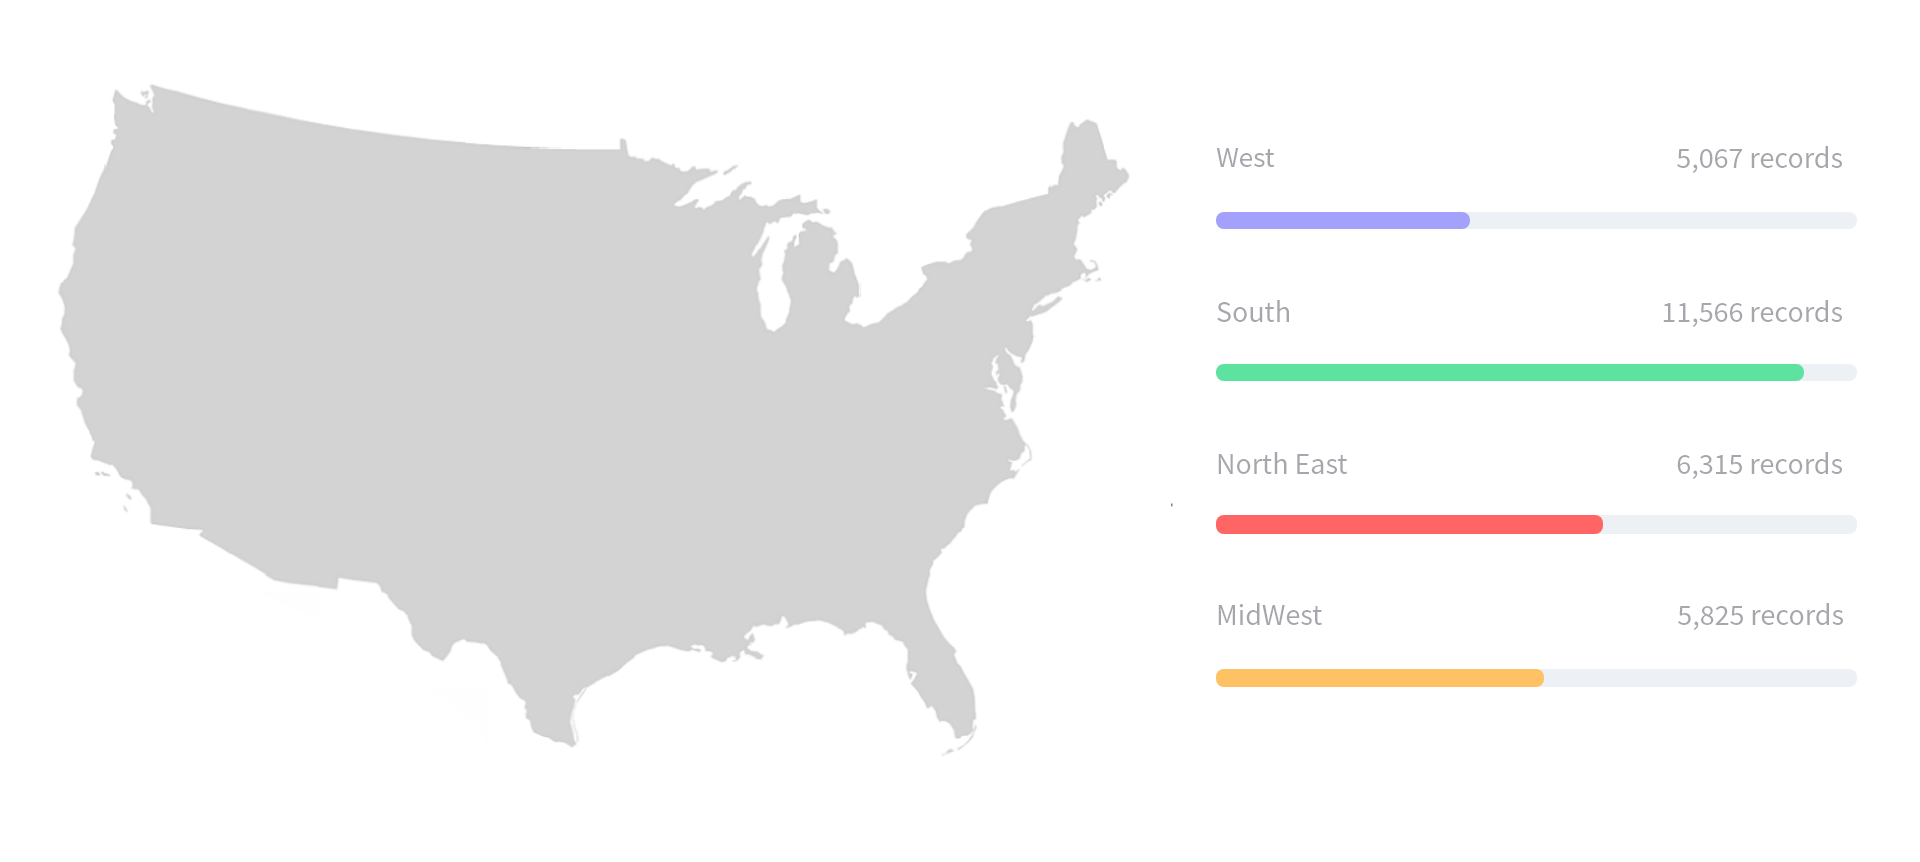
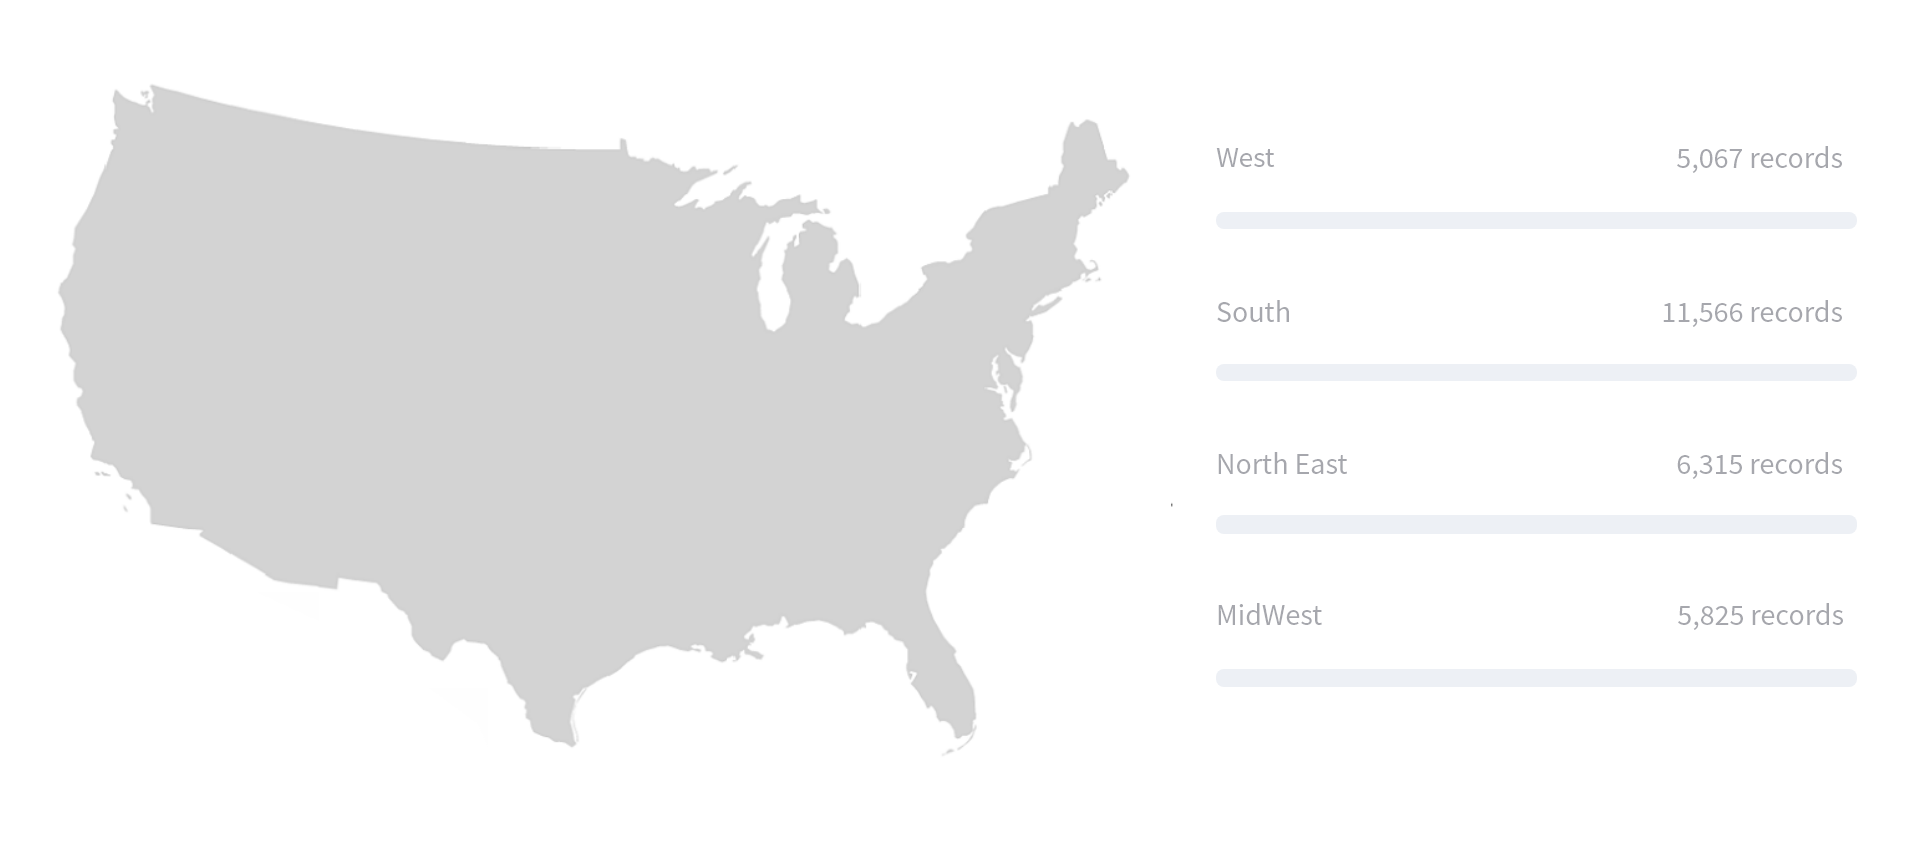
made some updates

diff --git a/templates/pull_data_API.html b/templates/pull_data_API.html
@@ -42,8 +42,6 @@
         animation: spin 5s  forwards;
        
         }
-      
-        /* Safari */
         @-webkit-keyframes spin {
         0% { -webkit-transform: rotate(0deg); }
         100% { -webkit-transform: rotate(360deg); }
@@ -136,7 +134,6 @@
         top: 180px;
         animation: cssAnimation1 0s 7s forwards,shadow-pulse 1s infinite;
         visibility: hidden;
-
         }
 
         .dot4 {
@@ -153,8 +150,6 @@
         visibility: hidden;
         }
 
-
-
         @keyframes cssAnimation1 {
             to   { visibility: visible; }
          }
@@ -170,8 +165,156 @@
             100% {
                 box-shadow: 0 0 0 35px rgba(0, 0, 0, 0);
                 }
-
          }
+
+
+         .meter1 { 
+            height: 10px;  /* Can be anything */
+            top: 180px;
+            left: 625px;
+            position: absolute;
+            background: #A3A1FB;
+            -moz-border-radius: 25px;
+            -webkit-border-radius: 25px;
+            border-radius: 25px;
+            padding: 10px;
+            box-shadow: inset 0 -1px 1px rgba(255,255,255,0.3);
+            animation: cssAnimation1 0s 7s forwards, expandWidth1 13s infinite;
+            visibility: hidden; 
+            }
+
+            .meter2 { 
+            height: 10px;  /* Can be anything */
+            top: 265px;
+            left: 625px;
+            position: absolute;
+            background:#5EE2A0;
+            -moz-border-radius: 25px;
+            -webkit-border-radius: 25px;
+            border-radius: 25px;
+            padding: 10px;
+            box-shadow: inset 0 -1px 1px rgba(255,255,255,0.3);
+            animation: cssAnimation1 0s 7s forwards, expandWidth2 13s infinite;
+            visibility: hidden; 
+            }
+
+            .meter3 { 
+            height: 10px;  /* Can be anything */
+            top: 350px;
+            left: 625px;
+            position: absolute;
+            background: #FF6565;
+            -moz-border-radius: 25px;
+            -webkit-border-radius: 25px;
+            border-radius: 25px;
+            padding: 10px;
+            box-shadow: inset 0 -1px 1px rgba(255,255,255,0.3);
+            animation: cssAnimation1 0s 7s forwards, expandWidth3 13s infinite;
+            visibility: hidden; 
+            }
+
+            .meter4 { 
+            height: 10px;  /* Can be anything */
+            top: 445px;
+            left: 625px;
+            position: absolute;
+            background: #FEC163;
+            -moz-border-radius: 25px;
+            -webkit-border-radius: 25px;
+            border-radius: 25px;
+            padding: 10px;
+            box-shadow: inset 0 -1px 1px rgba(255,255,255,0.3);
+            animation: cssAnimation1 0s 7s forwards, expandWidth4 13s infinite;
+            visibility: hidden; 
+            }
+
+           
+
+            @keyframes expandWidthORIGINAL{
+                0% { width: 0; }
+                10% { width: 0%; }
+                40% { width: 0%; }
+                50% { width: 0%; }
+                55% { width: 10%; }
+                60% { width: 20%; }
+                65% { width: 30%; }
+                70% { width: 40%; }
+                75% { width: 50%; }
+                80% { width: 60%; }
+                85% { width: 70%; }
+                90% { width: 80%; }
+                95% { width: 90%; }
+                100% { width: auto; }
+            }
+
+            @keyframes expandWidth1{
+                0% { width: 0; }
+                10% { width: 0%; }
+                40% { width: 0%; }
+                50% { width: 0%; }
+                55% { width: 2%; }
+                60% { width: 4%; }
+                65% { width: 6%; }
+                70% { width: 8%; }
+                75% { width: 10%; }
+                80% { width: 12%; }
+                85% { width: 12%; }
+                90% { width: 12%; }
+                95% { width: 12%; }
+                100% { width: 12%; }
+            }
+
+            @keyframes expandWidth2{
+                0% { width: 0; }
+                10% { width: 0%; }
+                40% { width: 0%; }
+                50% { width: 1%; }
+                55% { width: 3%; }
+                60% { width: 6%; }
+                65% { width: 9%; }
+                70% { width: 11%; }
+                75% { width: 14%; }
+                80% { width: 16%; }
+                85% { width: 18%; }
+                90% { width: 20%; }
+                95% { width: 23%; }
+                100% { width: 25%; }
+            }
+
+            @keyframes expandWidth3{
+                0% { width: 0; }
+                10% { width: 0%; }
+                40% { width: 0%; }
+                50% { width: 0%; }
+                55% { width: 2%; }
+                60% { width: 4%; }
+                65% { width: 6%; }
+                70% { width: 8%; }
+                75% { width: 10%; }
+                80% { width: 12%; }
+                85% { width: 14%; }
+                90% { width: 16%; }
+                95% { width: 18%; }
+                100% { width: 18%; }
+            }
+
+            @keyframes expandWidth4{
+                0% { width: 0; }
+                10% { width: 0%; }
+                40% { width: 0%; }
+                50% { width: 0%; }
+                55% { width: 2%; }
+                60% { width: 4%; }
+                65% { width: 6%; }
+                70% { width: 8%; }
+                75% { width: 9%; }
+                80% { width: 10%; }
+                85% { width: 11%; }
+                90% { width: 13%; }
+                95% { width: 15%; }
+                100% { width: 15%; }
+            }
+      
 
 
 
@@ -240,6 +383,7 @@
 
             <!-- USA MAP -->
             <div class = "usamap">
+
               <img src= "{{ url_for('static', filename='map graphic.png')}}"  height = "500px" width = "1000px">  
 
                   <!-- Circles -->
@@ -249,8 +393,24 @@
                 <span class ="dot4"></span>
                 <span class ="dot5"></span>
 
+                <div class = "meter1" >
+                    <span style="width: 100%"></span>
+                </div>
+                <div class = "meter2" >
+                    <span style="width: 100%"></span>
+                </div>
+                <div class = "meter3" >
+                    <span style="width: 100%"></span>
+                </div>
+                <div class = "meter4" >
+                    <span style="width: 100%"></span>
+                </div>
+                        
+
             </div>
-            
+ 
+
+
             <!-- H1-->
             <div class = "isDone">
                 <h1>The Data Loading is Complete</h1>
